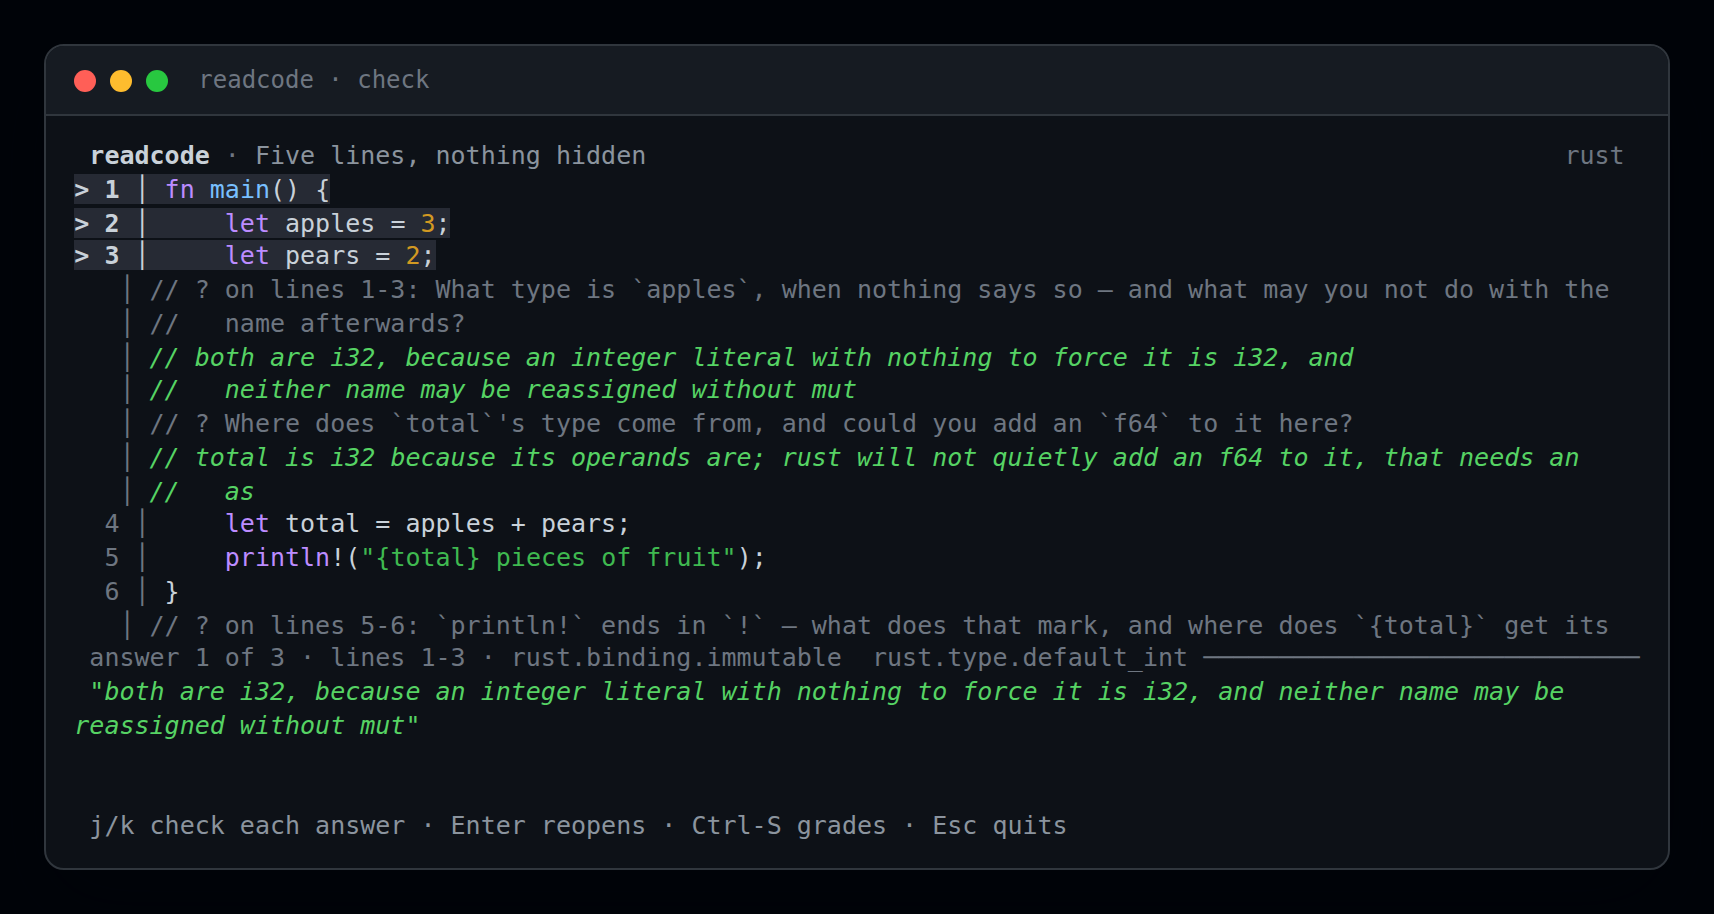
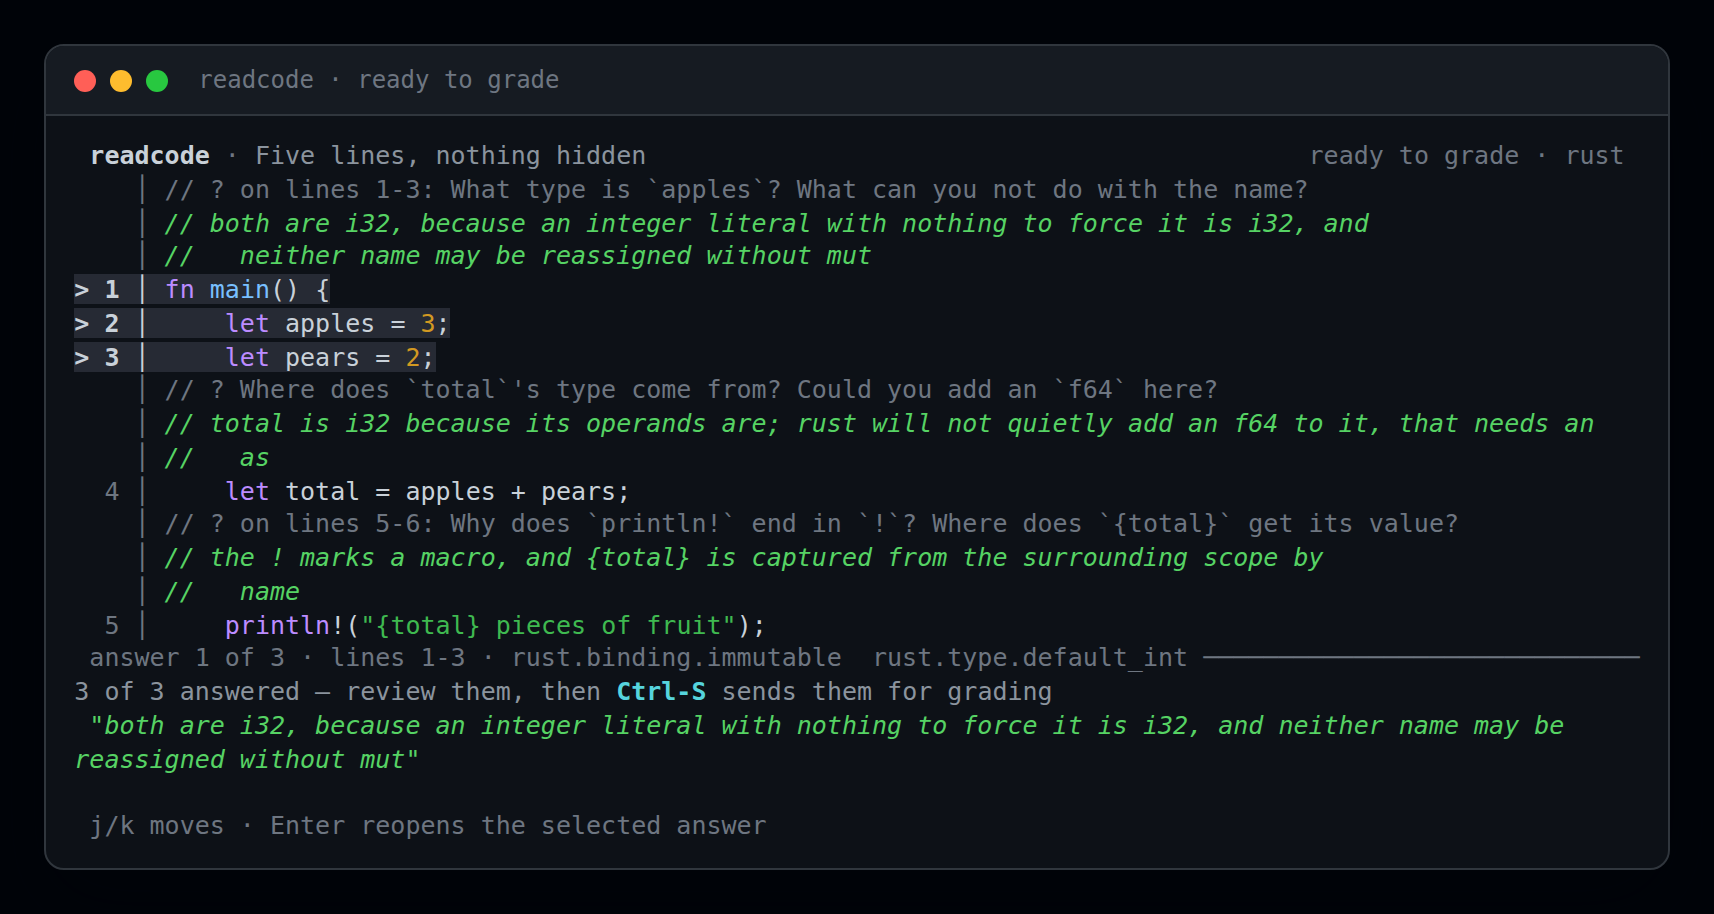
fix: say the state out loud, and put the note gutter back in line
Two reports from a real screen.

The check state did not say what it was waiting for: after the last answer the
panel changed, but nothing named the key that sends the sitting, and the guidance
line had just been dimmed so the one instruction that mattered was the faintest
text on screen. It now reads

    3 of 3 answered — review them, then Ctrl-S sends them for grading

with the key in the accent colour, the header says "ready to grade", the entry
title gives your position and the concepts, and the footer no longer repeats what
the strip already says.

The other was a one-column bug: note rows were padded to the gutter width, but
code rows also carry the marker column for ">", so every question and answer sat
one column left of the code it comments on — which reads as the line numbers
having slipped, and as a note glued to the line above it. Note rows now pad for
the marker too, and a test asserts every row with a rule puts it in the same
column.

diff --git a/src/tui/draw.rs b/src/tui/draw.rs
@@ -54,6 +54,12 @@ impl Theme {
     fn dim() -> Style {
         Style::default().fg(Color::Gray)
     }
+    /// The key that does the thing the screen is waiting for.
+    fn accent() -> Style {
+        Style::default()
+            .fg(Color::LightCyan)
+            .add_modifier(Modifier::BOLD)
+    }
     fn hint() -> Style {
         Style::default().fg(Color::DarkGray)
     }
@@ -198,7 +204,8 @@ fn draw_header(frame: &mut Frame, app: &App, area: Rect) {
     // of sitting this is, while the title says what the code is about.
     let language = app.snippet.language.clone();
     let progress = match app.phase {
-        Phase::Review | Phase::Confirm => language,
+        Phase::Confirm => format!("ready to grade · {language}"),
+        Phase::Review => language,
         _ => format!(
             "{language} · {mode} · {}/{}",
             app.index + 1,
@@ -334,7 +341,10 @@ fn push_note(
     let mut first = true;
     for piece in wrap(&note.ask, width.saturating_sub(indent + 5)) {
         rows.push(Line::from(vec![
-            Span::styled(format!("{:>gutter$} │ ", ""), Theme::gutter()),
+            Span::styled(
+                format!("{:>pad$} │ ", "", pad = gutter + 1),
+                Theme::gutter(),
+            ),
             Span::styled(
                 format!(
                     "{}{piece}",
@@ -352,7 +362,10 @@ fn push_note(
     let mut first = true;
     for piece in wrap(&note.answer, width.saturating_sub(indent + 5)) {
         rows.push(Line::from(vec![
-            Span::styled(format!("{:>gutter$} │ ", ""), Theme::gutter()),
+            Span::styled(
+                format!("{:>pad$} │ ", "", pad = gutter + 1),
+                Theme::gutter(),
+            ),
             Span::styled(
                 format!(
                     "{}{piece}",
@@ -479,7 +492,31 @@ fn draw_check(frame: &mut Frame, app: &App, area: Rect) {
     let inner = block.inner(area);
     frame.render_widget(block, area);
 
-    let [answer, hint] = Layout::vertical([Constraint::Min(2), Constraint::Length(1)]).areas(inner);
+    let [call, answer, hint] = Layout::vertical([
+        Constraint::Length(1),
+        Constraint::Min(2),
+        Constraint::Length(1),
+    ])
+    .areas(inner);
+
+    // The one thing the learner cannot guess: that the sitting is waiting on
+    // them, and that Ctrl-S is what sends it.
+    let answered = app.answers.iter().filter(|a| !a.trim().is_empty()).count();
+    frame.render_widget(
+        Paragraph::new(Line::from(vec![
+            Span::styled(
+                format!(
+                    " {answered} of {} answered — review them, then ",
+                    app.prompts.len()
+                ),
+                Theme::dim(),
+            ),
+            Span::styled("Ctrl-S", Theme::accent()),
+            Span::styled(" sends them for grading", Theme::dim()),
+        ]))
+        .wrap(Wrap { trim: true }),
+        call,
+    );
 
     let text = app
         .answers
@@ -497,8 +534,8 @@ fn draw_check(frame: &mut Frame, app: &App, area: Rect) {
     frame.render_widget(Paragraph::new(body).wrap(Wrap { trim: false }), answer);
     frame.render_widget(
         Paragraph::new(Line::from(Span::styled(
-            " j/k check each answer · Enter reopens · Ctrl-S grades · Esc quits",
-            Theme::dim(),
+            " j/k moves · Enter reopens the selected answer",
+            Theme::hint(),
         ))),
         hint,
     );
@@ -842,6 +879,7 @@ fn draw_footer(frame: &mut Frame, app: &App, area: Rect) {
         }
         // The check strip already carries these keys; repeating them here is the
         // kind of footnote that teaches nobody anything.
+        // The strip above already says what happens to an unanswered sitting.
         Phase::Confirm => "",
         Phase::Grading => " grading…",
         Phase::Review if app.error.is_some() => " r retries grading · Enter gives up",
@@ -1529,7 +1567,10 @@ mod tests {
         // The answer being checked is repeated where the input used to be.
         assert!(screen.contains("answer 1 of "), "{screen}");
         assert!(screen.contains("\"answer 0\""), "{screen}");
-        assert!(screen.contains("Ctrl-S grades"), "{screen}");
+        // The state says what it is waiting for, and names the key that sends it.
+        assert!(screen.contains("ready to grade"), "{screen}");
+        assert!(screen.contains("Ctrl-S"), "{screen}");
+        assert!(screen.contains("sends them for grading"), "{screen}");
     }
 
     #[test]
@@ -1567,5 +1608,38 @@ mod tests {
         let screen = screen(&app, 96, 26);
         assert!(screen.contains("12s"), "{screen}");
         assert!(screen.contains("the answers are safe"), "{screen}");
+    }
+
+    #[test]
+    fn note_rows_line_up_with_the_code_gutter() {
+        // A note is a comment on the code, so its vertical rule belongs in the
+        // same column. The code rows carry a marker column for the `>`; the note
+        // rows have to pad for it too, or every note sits one column left and the
+        // gutter looks broken.
+        let corpus = Corpus::builtin().unwrap();
+        let snippet = corpus.find("rust-005").unwrap();
+        let mut app = App::new(
+            snippet,
+            snippet.prompts(Asks::Lines),
+            Asks::Lines,
+            "check".into(),
+        );
+        for index in 0..2 {
+            for char_ in format!("note {index}").chars() {
+                app.on_key(Key::Char(char_));
+            }
+            app.on_key(Key::Enter);
+        }
+        let screen = screen(&app, 90, 26);
+        let columns: Vec<usize> = screen
+            .lines()
+            .filter(|row| row.contains('│'))
+            .map(|row| row.find('│').unwrap_or(0))
+            .collect();
+        assert!(columns.len() > 3, "{screen}");
+        assert!(
+            columns.windows(2).all(|pair| pair[0] == pair[1]),
+            "the gutter moves between rows: {columns:?}\n{screen}"
+        );
     }
 }
